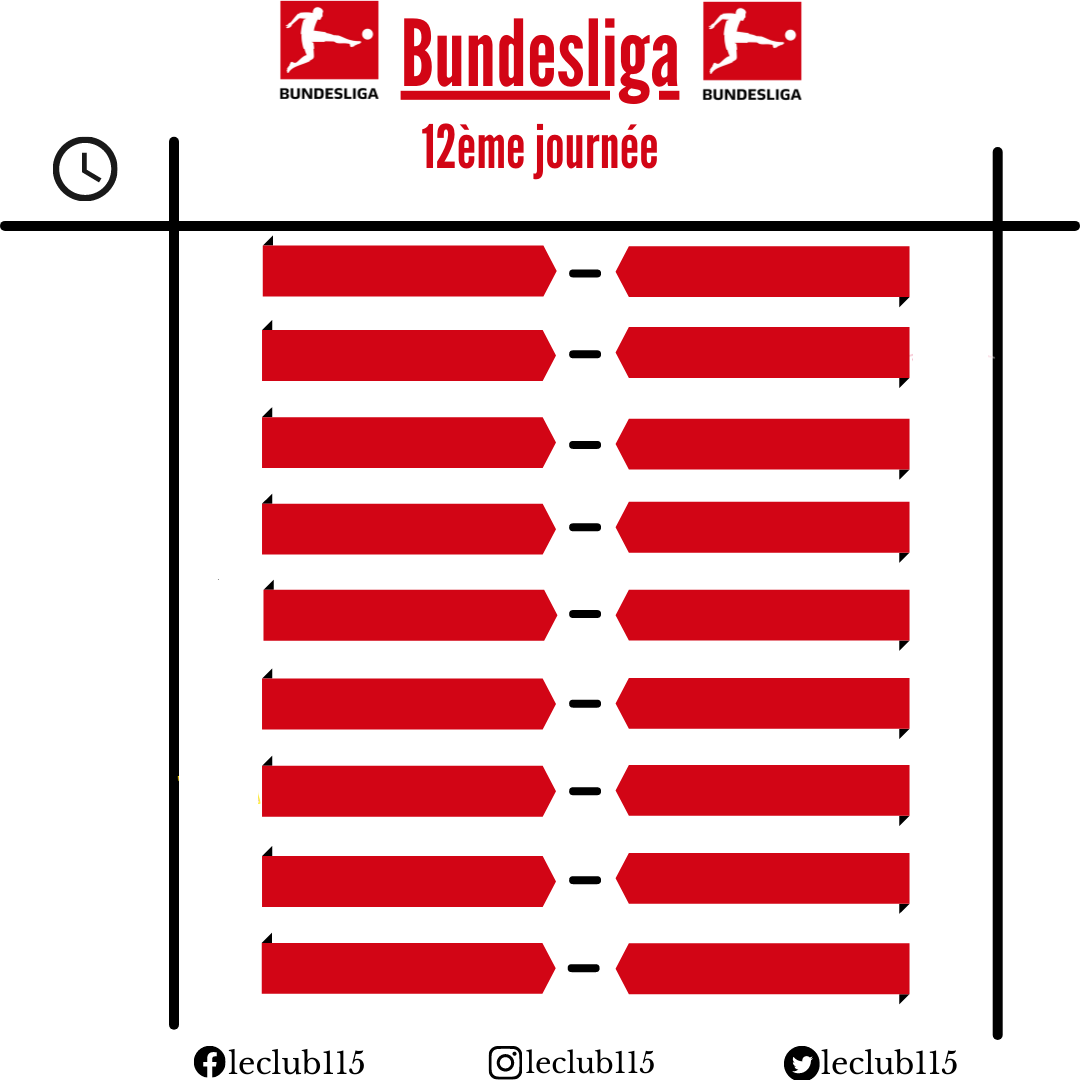
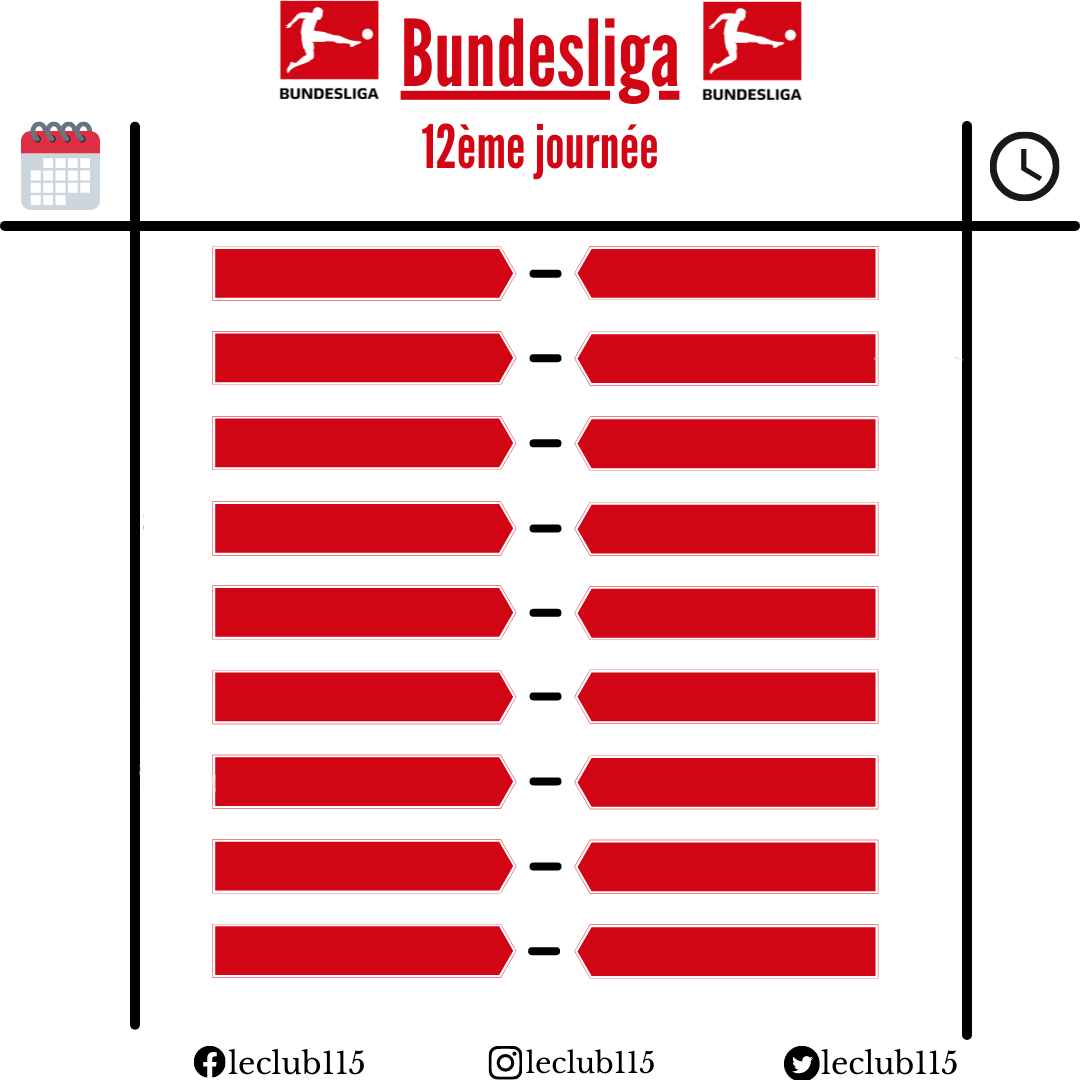
generate from static data ok

Changed region(s): [[0.0, 0.0917, 0.8556, 0.9472], [0.8861, 0.1222, 0.9778, 0.9778]]

diff --git a/main.py b/main.py
@@ -1,5 +1,6 @@
 import json
 from PIL import Image, ImageFont, ImageDraw
+import requests
 
 f = open('data_clubs.json')
 data_clubs = json.load(f)
@@ -11,16 +12,20 @@ template = Image.open(data_clubs['path_templates']+"/calendrier_bundesliga.png")
 new_image = template.copy()
 
 #FONT
-league_gothic = ImageFont.truetype(data_clubs['path_font']+'/league_gothic/LeagueGothic-Regular.otf', 30)
-ruda_bold = ImageFont.truetype(data_clubs['path_font']+'/ruda/Ruda-Bold.ttf', 21)
+league_gothic = ImageFont.truetype(data_clubs['path_font']+'/league_gothic/LeagueGothic-Regular.otf', 30, layout_engine=ImageFont.LAYOUT_RAQM)
+ruda_bold = ImageFont.truetype(data_clubs['path_font']+'/ruda/Ruda-Bold.ttf', 21, layout_engine=ImageFont.LAYOUT_RAQM)
 
 #DRAW IMAGE
 edit_image = ImageDraw.Draw(new_image)
+
+
+
 start_height = 260
 for i in range(9):
-    edit_image.text((335,start_height), "FC Augsburg", (255,255,255), ruda_bold)
-    edit_image.text((704,start_height), "FC Augsburg", (255,255,255), ruda_bold)
-    start_height += 87
+    edit_image.text((230,start_height), "Bayern Munich", (255,255,255), ruda_bold)
+    size = ruda_bold.getsize("Herta Berlin")
+    edit_image.text((868-size[0],start_height), "Herta Berlin", (255,255,255), ruda_bold)
+    start_height += 85
 
 
 
